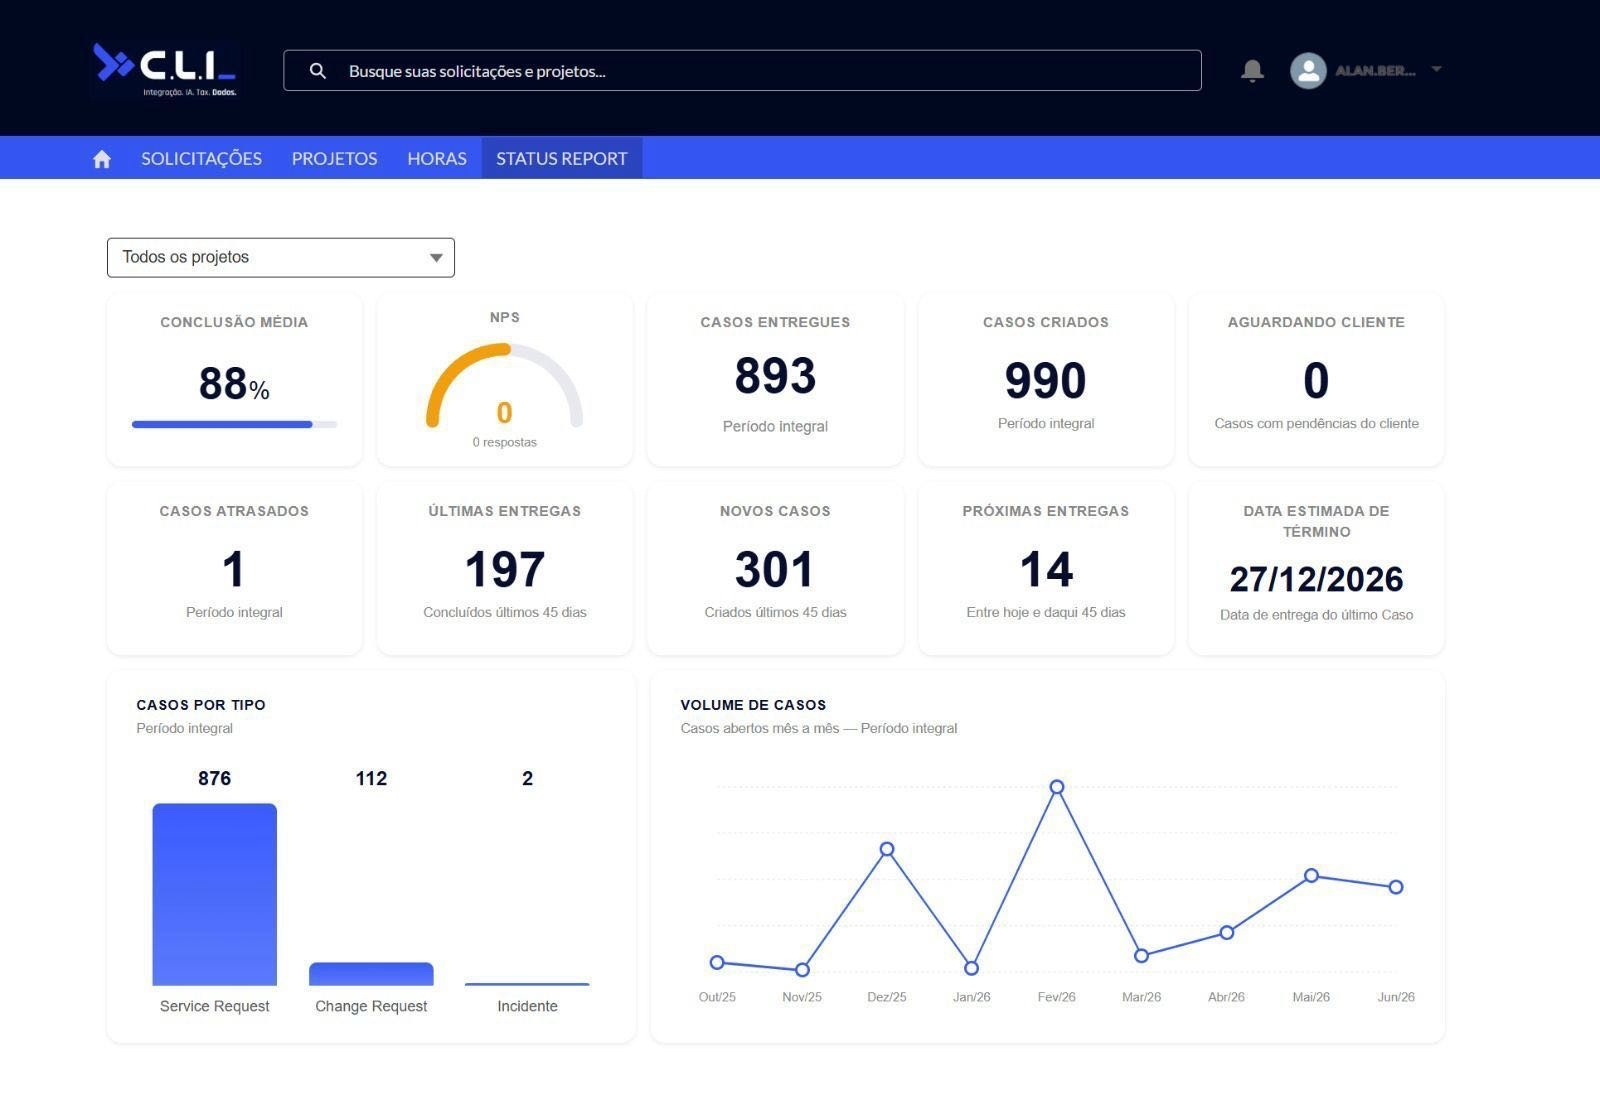
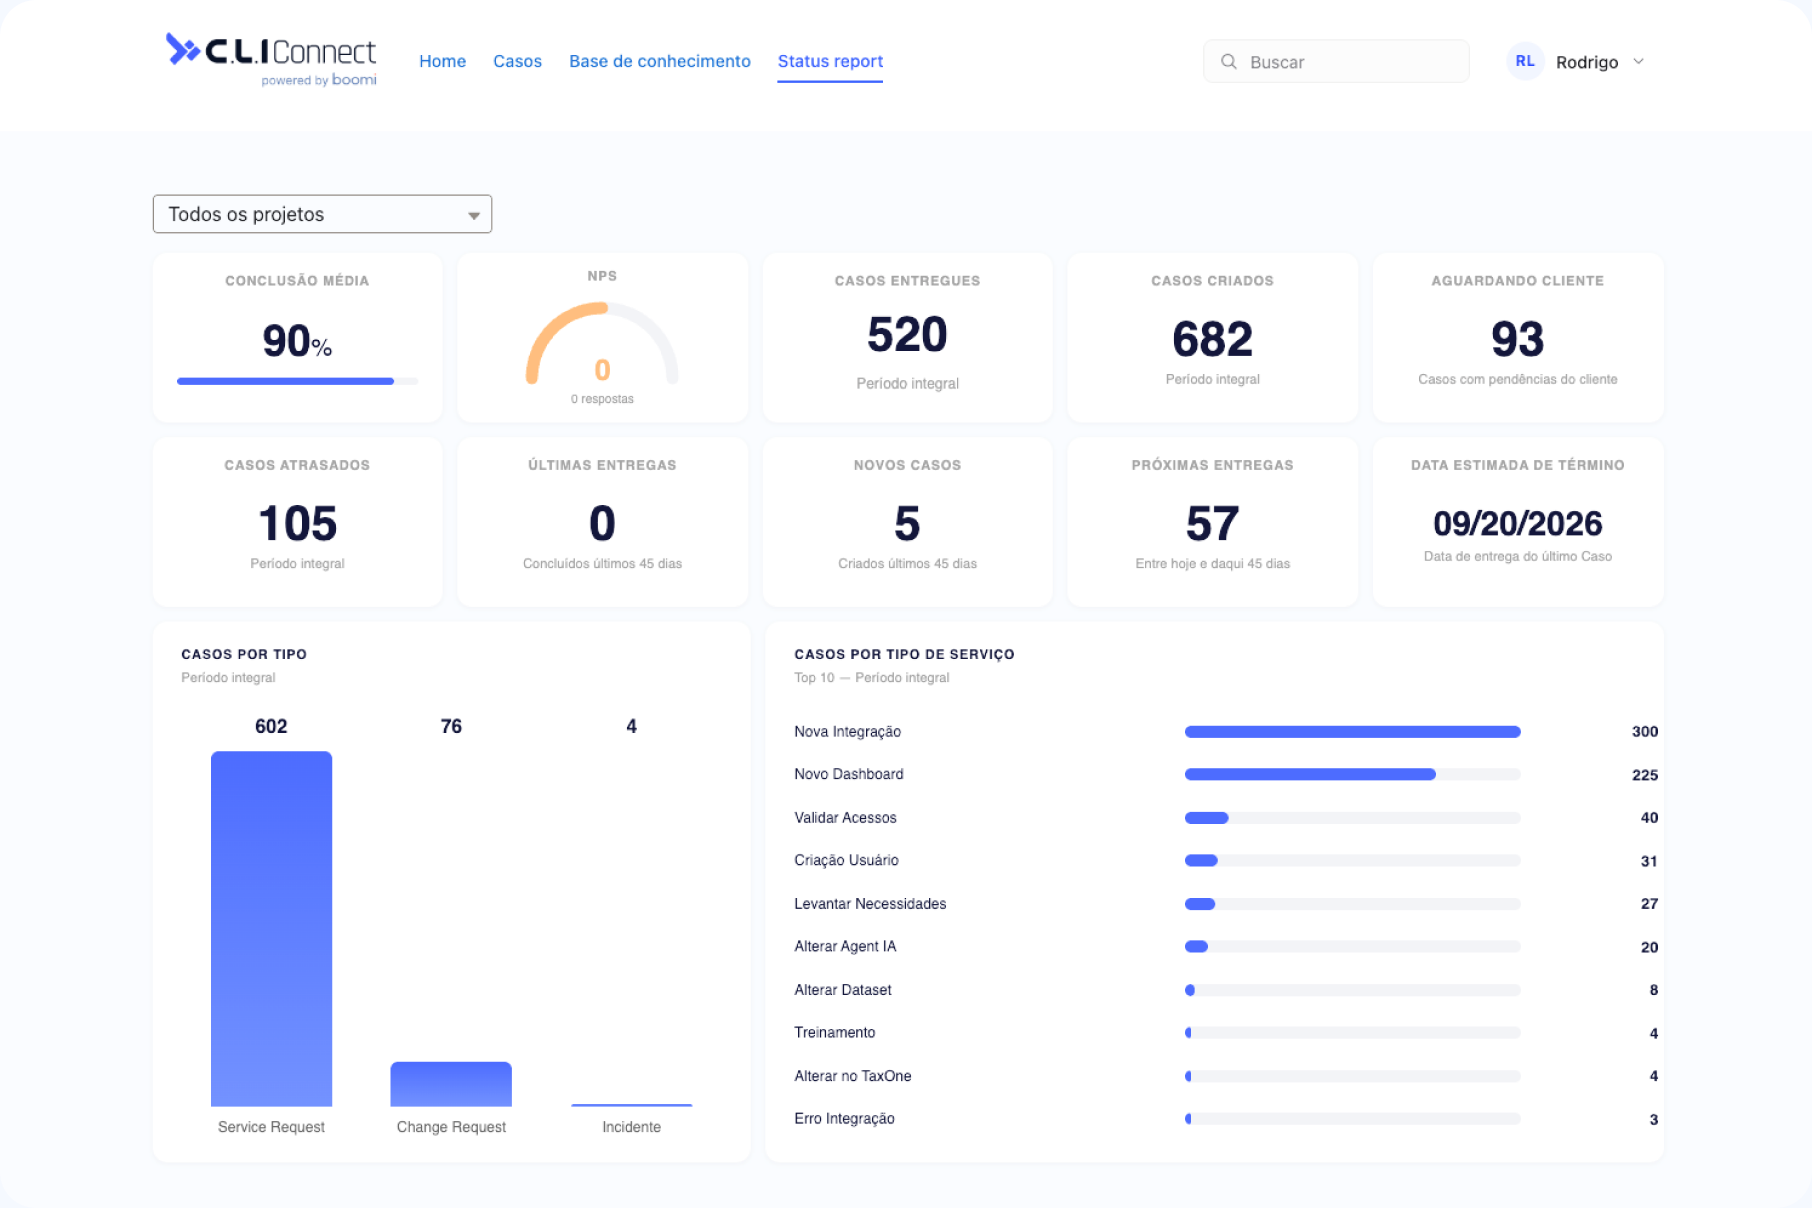
fix: corrige depoimento da Trabalhe Conosco e itens visuais da CLI Connect
Trabalhe Conosco (#119): cargo do depoimento de Vitória Nunes vira "Time
Tech" (PT/EN/ES) e o container do depoimento ganha o fundo --cor-fundo,
conforme o Figma.

CLI Connect (#121), com assets exportados do Figma:
- Seção Boomi: nova faixa "Empresas que usam a Boomi" com os logos de
  Cargill, Cisco e Dell (novo campo ACF cc_boomi_logos_clientes).
- Imagem do dashboard (cc-dashboard.png) atualizada para o print correto
  do Status Report.
- Ícone de destaque da seção Parceiro corrigido de #1C1B1F para o azul
  de marca (#3551F2).

Os ícones do diagrama "Plataforma Global" (item 1 da #121) seguem sem
correção: o arquivo Figma ao qual tive acesso está com a mesma versão
(branca) já usada no tema — ver comentário na issue.

Closes #119

diff --git a/assets/css/page-cli-connect.css b/assets/css/page-cli-connect.css
@@ -549,6 +549,35 @@
 	line-height: 1.6;
 }
 
+.cc-boomi__logos {
+	align-items: center;
+	border-top: 1px solid rgba(31, 36, 45, 0.1);
+	display: flex;
+	flex-wrap: wrap;
+	gap: 16px 24px;
+	margin-top: 32px;
+	padding-top: 24px;
+}
+
+.cc-boomi__logos-texto {
+	color: var(--cor-texto-secundario, #566f9d);
+	font-size: 14px;
+	white-space: nowrap;
+}
+
+.cc-boomi__logos-lista {
+	align-items: center;
+	display: flex;
+	flex-wrap: wrap;
+	gap: 24px;
+}
+
+.cc-boomi__logos-item img {
+	display: block;
+	height: 36px;
+	width: auto;
+}
+
 .cc-boomi__cartao {
 	aspect-ratio: 3 / 2;
 }

diff --git a/assets/css/page-trabalhe-conosco.css b/assets/css/page-trabalhe-conosco.css
@@ -336,6 +336,7 @@
 .tc-depoimento__inner {
 	display: grid;
 	grid-template-columns: 1fr 3fr;
+	background: var(--cor-fundo);
 	border-bottom: 2px solid rgba(39, 62, 128, 0.05);
 	padding-bottom: 24px;
 	position: relative;

diff --git a/inc/cli/seed.php b/inc/cli/seed.php
@@ -745,6 +745,9 @@ class Cliconnect_Seed {
 			array( 'Peixoto', 'cliente-peixoto', false ),
 			array( 'SEG Imob', 'cliente-seg-imob', false ),
 			array( 'Utrip', 'cliente-utrip', false ),
+			array( 'Cargill', 'cliente-cargill', false ),
+			array( 'Cisco', 'cliente-cisco', false ),
+			array( 'Dell', 'cliente-dell', false ),
 		);
 
 		foreach ( $itens as $ordem => $item ) {
@@ -2088,7 +2091,7 @@ class Cliconnect_Seed {
 			// 6. Depoimento.
 			'dep_foto'  => $this->img( 'tc-dep-foto-vitoria' ),
 			'dep_nome'  => 'Vitória Nunes',
-			'dep_cargo' => 'Tech Lead',
+			'dep_cargo' => 'Time Tech',
 			'dep_texto' => 'O trabalho em equipe na CLI é real e acontece no dia a dia. Contar com um time que se ajuda para resolver problemas complexos e que está em total sintonia com ferramentas inovadoras torna a nossa rotina leve e realizadora. No final das contas, o sucesso das nossas entregas é fruto desse ecossistema, onde recebemos apoio de todas as áreas da empresa.',
 
 			// 7. Benefícios.
@@ -2220,9 +2223,19 @@ class Cliconnect_Seed {
 			'cc_impl_com_etapa_3' => 'Dados disponibilizados',
 
 			// 5. Boomi.
-			'cc_boomi_eyebrow' => 'Plataforma global',
-			'cc_boomi_titulo'  => 'Tecnologia de classe mundial com suporte para o mercado brasileiro',
-			'cc_boomi_texto'   => 'Quando você contrata a CLI Connect, tem acesso à mesma plataforma que grandes empresas globais usam para integrar seus sistemas, mas com o diferencial do suporte especializado no mercado brasileiro, preço acessível e serviço gerenciado incluso.',
+			'cc_boomi_eyebrow'        => 'Plataforma global',
+			'cc_boomi_titulo'         => 'Tecnologia de classe mundial com suporte para o mercado brasileiro',
+			'cc_boomi_texto'          => 'Quando você contrata a CLI Connect, tem acesso à mesma plataforma que grandes empresas globais usam para integrar seus sistemas, mas com o diferencial do suporte especializado no mercado brasileiro, preço acessível e serviço gerenciado incluso.',
+			'cc_boomi_logos_texto'    => 'Empresas que usam a Boomi',
+			'cc_boomi_logos_clientes' => array_values(
+				array_filter(
+					array(
+						$this->id_do_seed( 'cliente:cargill', 'cli_cliente' ),
+						$this->id_do_seed( 'cliente:cisco', 'cli_cliente' ),
+						$this->id_do_seed( 'cliente:dell', 'cli_cliente' ),
+					)
+				)
+			),
 
 			// 6. Operações Críticas.
 			'cc_operacoes_eyebrow'  => 'Operações Críticas',

diff --git a/inc/cli/seed-es-paginas.php b/inc/cli/seed-es-paginas.php
@@ -332,6 +332,16 @@ trait Cliconnect_Seed_Es_Paginas {
 			'cc_boomi_eyebrow'        => 'Plataforma global',
 			'cc_boomi_titulo'         => 'Tecnología de clase mundial con soporte para el mercado latinoamericano',
 			'cc_boomi_texto'          => 'Al contratar CLI Connect accede a la misma plataforma que las grandes empresas globales usan para integrar sus sistemas, con la ventaja de un soporte especializado, un precio accesible y el servicio gestionado incluido.',
+			'cc_boomi_logos_texto'    => 'Empresas que usan Boomi',
+			'cc_boomi_logos_clientes' => array_values(
+				array_filter(
+					array(
+						$this->id_do_seed( 'cliente:cargill', 'cli_cliente' ),
+						$this->id_do_seed( 'cliente:cisco', 'cli_cliente' ),
+						$this->id_do_seed( 'cliente:dell', 'cli_cliente' ),
+					)
+				)
+			),
 			'cc_operacoes_eyebrow'    => 'Operaciones Críticas',
 			'cc_operacoes_titulo'     => 'Algunas integraciones',
 			'cc_operacoes_titulo_2'   => 'simplemente no pueden fallar',
@@ -441,7 +451,7 @@ trait Cliconnect_Seed_Es_Paginas {
 			'valor_4_texto'        => 'Impulsamos nuevas ideas y la creatividad para anticipar tendencias y generar soluciones innovadoras con responsabilidad.',
 			'valor_5_titulo'       => 'Colaboración',
 			'valor_5_texto'        => 'Somos un equipo unido. Compartimos conocimiento, logros y aprendizajes con espíritu de colaboración y armonía.',
-			'dep_cargo'            => 'Tech Lead',
+			'dep_cargo'            => 'Equipo Tech',
 			'dep_texto'            => 'El trabajo en equipo en CLI es real y ocurre todos los días. Contar con un equipo que se ayuda para resolver problemas complejos y que está en total sintonía con herramientas innovadoras hace que nuestra rutina sea ligera y satisfactoria. Al final, el éxito de nuestras entregas es fruto de ese ecosistema, donde recibimos apoyo de todas las áreas de la empresa.',
 			'beneficios_eyebrow'   => 'BENEFICIOS',
 			'beneficios_titulo'    => 'Todo para que pueda hacer su mejor trabajo.',

diff --git a/inc/cli/seed-en-paginas.php b/inc/cli/seed-en-paginas.php
@@ -267,7 +267,7 @@ trait Cliconnect_Seed_En_Paginas {
 			'valor_4_texto'        => 'We encourage new ideas and creativity to anticipate trends and build innovative solutions responsibly.',
 			'valor_5_titulo'       => 'Collaboration',
 			'valor_5_texto'        => 'We are one team. We share knowledge, achievements and lessons learned in a spirit of partnership and harmony.',
-			'dep_cargo'            => 'Tech Lead',
+			'dep_cargo'            => 'Tech Team',
 			'dep_texto'            => 'Teamwork at CLI is real and it happens every day. Having a team that helps each other solve complex problems, in full sync with innovative tools, makes our routine light and rewarding. In the end, the success of our deliveries comes from this ecosystem, where we get support from every area of the company.',
 			'beneficios_eyebrow'   => 'BENEFITS',
 			'beneficios_titulo'    => 'Everything you need to do your best work.',
@@ -443,6 +443,16 @@ trait Cliconnect_Seed_En_Paginas {
 			'cc_boomi_eyebrow'        => 'Global platform',
 			'cc_boomi_titulo'         => 'World-class technology with support built for the Brazilian market',
 			'cc_boomi_texto'          => 'When you hire CLI Connect you get the same platform that large global companies use to integrate their systems, with the added advantage of specialised support for the Brazilian market, affordable pricing and managed service included.',
+			'cc_boomi_logos_texto'    => 'Companies using Boomi',
+			'cc_boomi_logos_clientes' => array_values(
+				array_filter(
+					array(
+						$this->id_do_seed( 'cliente:cargill', 'cli_cliente' ),
+						$this->id_do_seed( 'cliente:cisco', 'cli_cliente' ),
+						$this->id_do_seed( 'cliente:dell', 'cli_cliente' ),
+					)
+				)
+			),
 			'cc_operacoes_eyebrow'    => 'Critical Operations',
 			'cc_operacoes_titulo'     => 'Some integrations',
 			'cc_operacoes_titulo_2'   => 'simply cannot fail',

diff --git a/template-parts/cli-connect/boomi.php b/template-parts/cli-connect/boomi.php
@@ -12,9 +12,15 @@ if ( ! defined( 'ABSPATH' ) ) {
 	exit;
 }
 
-$eyebrow = cliconnect_campo_pagina( 'cc_boomi_eyebrow' );
-$titulo  = cliconnect_campo_pagina( 'cc_boomi_titulo' );
-$texto   = cliconnect_campo_pagina( 'cc_boomi_texto' );
+$eyebrow      = cliconnect_campo_pagina( 'cc_boomi_eyebrow' );
+$titulo       = cliconnect_campo_pagina( 'cc_boomi_titulo' );
+$texto        = cliconnect_campo_pagina( 'cc_boomi_texto' );
+$logos_texto  = cliconnect_campo_pagina( 'cc_boomi_logos_texto' );
+$logos_ids    = cliconnect_campo_pagina( 'cc_boomi_logos_clientes', array() );
+
+if ( ! is_array( $logos_ids ) ) {
+	$logos_ids = array();
+}
 
 /*
  * O cartão da direita é a mesma peça fechada usada na home
@@ -48,6 +54,22 @@ if ( ! $titulo && ! $cartao ) {
 
 			<?php if ( $texto ) : ?>
 				<p class="cc-boomi__corpo"><?php echo esc_html( $texto ); ?></p>
+			<?php endif; ?>
+
+			<?php if ( $logos_texto && $logos_ids ) : ?>
+				<div class="cc-boomi__logos">
+					<span class="cc-boomi__logos-texto"><?php echo esc_html( $logos_texto ); ?></span>
+					<div class="cc-boomi__logos-lista">
+						<?php foreach ( $logos_ids as $cliente_id ) : ?>
+							<?php $logo = cliconnect_thumb( (int) $cliente_id, 'medium' ); ?>
+							<?php if ( $logo ) : ?>
+								<span class="cc-boomi__logos-item">
+									<?php echo $logo; // phpcs:ignore WordPress.Security.EscapeOutput.OutputNotEscaped ?>
+								</span>
+							<?php endif; ?>
+						<?php endforeach; ?>
+					</div>
+				</div>
 			<?php endif; ?>
 		</div>
 

diff --git a/inc/acf-fields-cli-connect.php b/inc/acf-fields-cli-connect.php
@@ -125,6 +125,19 @@ function cliconnect_acf_fields_cli_connect() {
 	$fields[] = $cc_text( 'boomi_eyebrow', 'Eyebrow', 'cc_boomi_eyebrow' );
 	$fields[] = $cc_text( 'boomi_titulo', 'Título', 'cc_boomi_titulo' );
 	$fields[] = $cc_textarea( 'boomi_texto', 'Texto de apoio', 'cc_boomi_texto', 3 );
+	$fields[] = $cc_text( 'boomi_logos_texto', 'Logos — legenda', 'cc_boomi_logos_texto' );
+	$fields[] = array(
+		'key'           => 'field_cc_boomi_logos_clientes',
+		'label'         => 'Logos — clientes',
+		'name'          => 'cc_boomi_logos_clientes',
+		'type'          => 'relationship',
+		'post_type'     => array( 'cli_cliente' ),
+		'filters'       => array( 'search' ),
+		'return_format' => 'id',
+		'min'           => 0,
+		'max'           => 4,
+		'instructions'  => 'Logos exibidos abaixo do texto (ex.: "Empresas que usam a Boomi"). O logo é a imagem destacada do cliente.',
+	);
 
 	/* --- 6. OPERAÇÕES CRÍTICAS ---------------------------------------------- */
 	$fields[] = $cc_tab( 'operacoes', '6 · Operações Críticas' );
